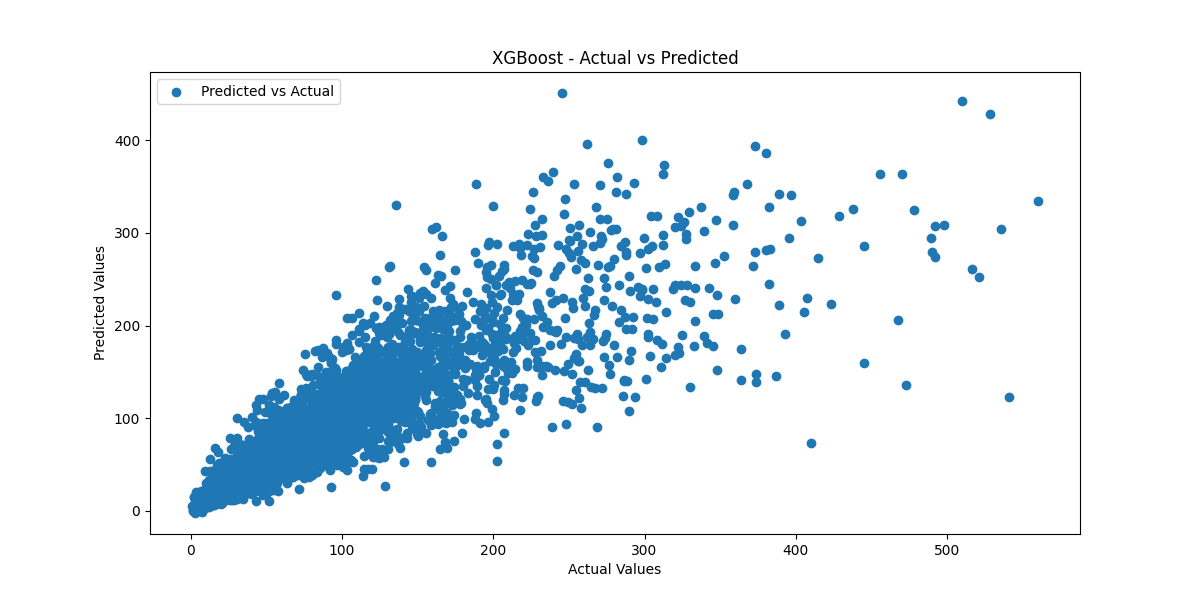
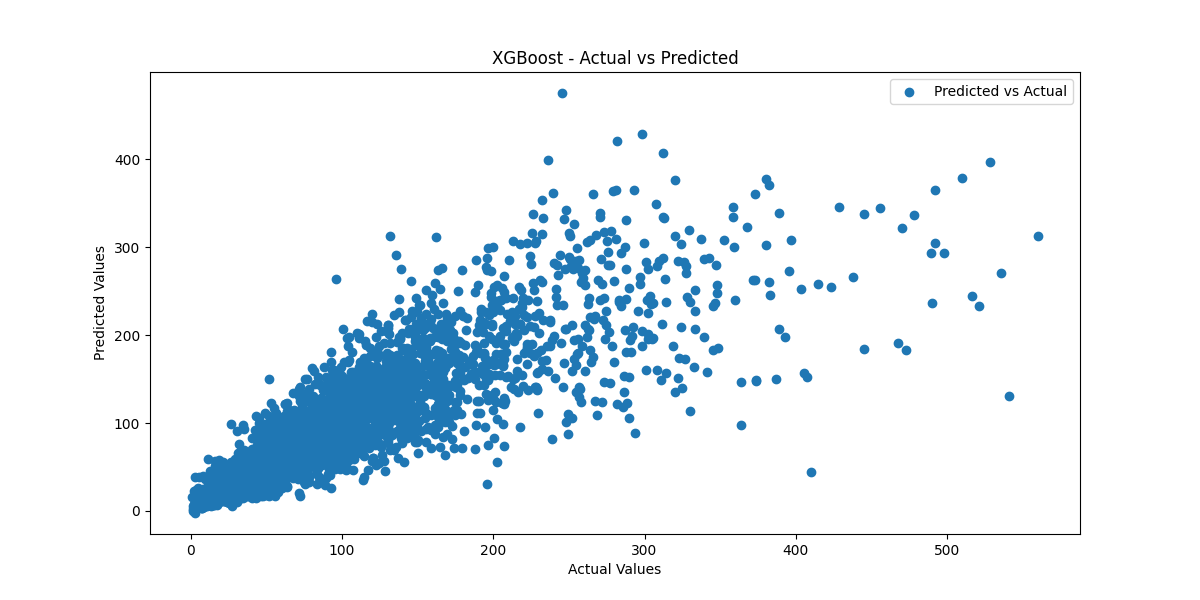
Your commit message

diff --git a/PREDICTION.py b/PREDICTION.py
@@ -11,16 +11,11 @@ mlflow.set_tracking_uri('http://localhost:5000')
 mlflow.set_experiment("Sales_Forecasting_and_Optimization")
 
 # Load model
-model_version = 7
+model_version = 9
 model_name = "XGBoost_Sales_Forecasting_Model"
 model = mlflow.xgboost.load_model(f"models:/{model_name}/{model_version}")
 
-# Load data
-df = pd.read_csv("global_superstore_2016_cleaned_data.csv")
 
-# Create mappings
-city_mapping_df = df[['City', 'State', 'Country', 'Region', 'Market']].drop_duplicates(subset=['City'])
-sub_category_mapping_df = df[['Sub-Category', 'Category']].drop_duplicates(subset=['Sub-Category'])
 
 # Load label encoders
 with open('label_encoders.pkl', 'rb') as f:
@@ -33,23 +28,10 @@ st.write("This app predicts **sales** based on the input features.")
 # Categorical inputs
 ship_mode = st.selectbox("Ship Mode", label_encoders['Ship Mode'].classes_)
 segment = st.selectbox("Segment", label_encoders['Segment'].classes_)
+order_priority = st.selectbox("Order Priority", label_encoders['Order Priority'].classes_)
+city = st.selectbox("City", label_encoders['City'].classes_)
+sub_category = st.selectbox("Sub-Category", label_encoders['Sub-Category'].classes_)
 
-# City and auto-fill fields
-city = st.selectbox("City", city_mapping_df['City'].unique())
-selected_row = city_mapping_df[city_mapping_df['City'] == city].iloc[0]
-state = selected_row['State']
-country = selected_row['Country']
-region = selected_row['Region']
-market = selected_row['Market']
-st.selectbox("State", [state], disabled=True)
-st.selectbox("Country", [country], disabled=True)
-st.selectbox("Region", [region], disabled=True)
-st.selectbox("Market", [market], disabled=True)
-
-# Sub-Category and auto-fill Category
-sub_category = st.selectbox("Sub-Category", sub_category_mapping_df['Sub-Category'].unique())
-category = sub_category_mapping_df[sub_category_mapping_df['Sub-Category'] == sub_category].iloc[0]['Category']
-st.selectbox("Category", [category], disabled=True)
 
 # Date inputs
 order_date = st.date_input("Order Date", value=datetime(2016, 1, 1))
@@ -64,19 +46,6 @@ if ship_date <= order_date:
 order_date_ts = int(pd.to_datetime(order_date).timestamp())
 ship_date_ts = int(pd.to_datetime(ship_date).timestamp())
 
-# Determine order season
-def get_order_season(order_date):
-    month = order_date.month
-    if month in [12, 1, 2]: return "Winter"
-    elif month in [3, 4, 5]: return "Spring"
-    elif month in [6, 7, 8]: return "Summer"
-    else: return "Fall"
-
-order_season = get_order_season(order_date)
-st.selectbox("Order Season", [order_season], disabled=True)
-
-# Other categorical inputs
-order_priority = st.selectbox("Order Priority", label_encoders['Order Priority'].classes_)
 
 # Numerical inputs
 profit = st.number_input("Profit")
@@ -84,18 +53,6 @@ quantity = st.number_input("Quantity", min_value=1, step=1, value=5)
 discount = st.number_input("Discount", min_value=0.0, max_value=1.0, step=0.01, value=0.1)
 shipping_cost = st.number_input("Shipping Cost", min_value=0.0, step=0.1, value=10.0)
 
-# Date-based features
-order_date_obj = pd.to_datetime(order_date)
-day_of_week = order_date_obj.strftime('%A')
-
-is_black_friday = 1 if (order_date_obj.month == 11 and order_date_obj.day >= 23) else 0
-is_black_friday_display = 'Yes' if is_black_friday else 'No'
-
-is_weekend = 1 if (order_date_obj.weekday() >= 5) else 0
-
-st.selectbox("Day of Week", [day_of_week], disabled=True)
-st.selectbox("Is Black Friday?", ['Yes', 'No'], index=['Yes', 'No'].index(is_black_friday_display), disabled=True)
-st.selectbox("Is Weekend?", ['No', 'Yes'], index=is_weekend, disabled=True)
 
 # Encoding function
 def encode(col, val):
@@ -112,21 +69,12 @@ input_features = np.array([[
     encode('Ship Mode', ship_mode),
     encode('Segment', segment),
     encode('City', city),
-    encode('State', state),
-    encode('Country', country),
-    encode('Region', region),
-    encode('Market', market),
-    encode('Category', category),
     encode('Sub-Category', sub_category),
     profit,
     quantity,
     discount,
     shipping_cost,
     encode('Order Priority', order_priority),
-    encode('Order_Season', order_season),
-    is_black_friday,
-    ['Monday', 'Tuesday', 'Wednesday', 'Thursday', 'Friday', 'Saturday', 'Sunday'].index(day_of_week),
-    is_weekend
 ]])
 
 # Predict button

diff --git a/XGBoost.py b/XGBoost.py
@@ -20,9 +20,8 @@ df_c = pd.read_csv('global_superstore_2016_cleaned_data.csv')
 df_c['Ship Date'] = pd.to_datetime(df_c['Ship Date']).astype('int64') // 10**9
 df_c['Order Date'] = pd.to_datetime(df_c['Order Date']).astype('int64') // 10**9
 
-categorical_columns = ['Ship Mode', 'Segment', 'City', 'State', 'Country', 'Region', 'Market', 
-                       'Category', 'Sub-Category', 'Order Priority', 'Order Month Name', 
-                       'Ship Month Name', 'Order_Season']
+categorical_columns = ['Ship Mode', 'Segment', 'City',
+                        'Sub-Category', 'Order Priority',]
 label_encoders = {}
 
 for col in categorical_columns:
@@ -36,7 +35,8 @@ with open("label_encoders.pkl", "wb") as f:
 
 
 # Define features and target
-X = df_c.drop(columns=['Sales'])
+X = df_c[['Order Date', 'Ship Date', 'Ship Mode', 'Segment', 'City', 'Sub-Category', 
+          'Order Priority', 'Quantity', 'Discount', 'Profit', 'Shipping Cost']]
 y = df_c['Sales']
 
 # Train-test split
